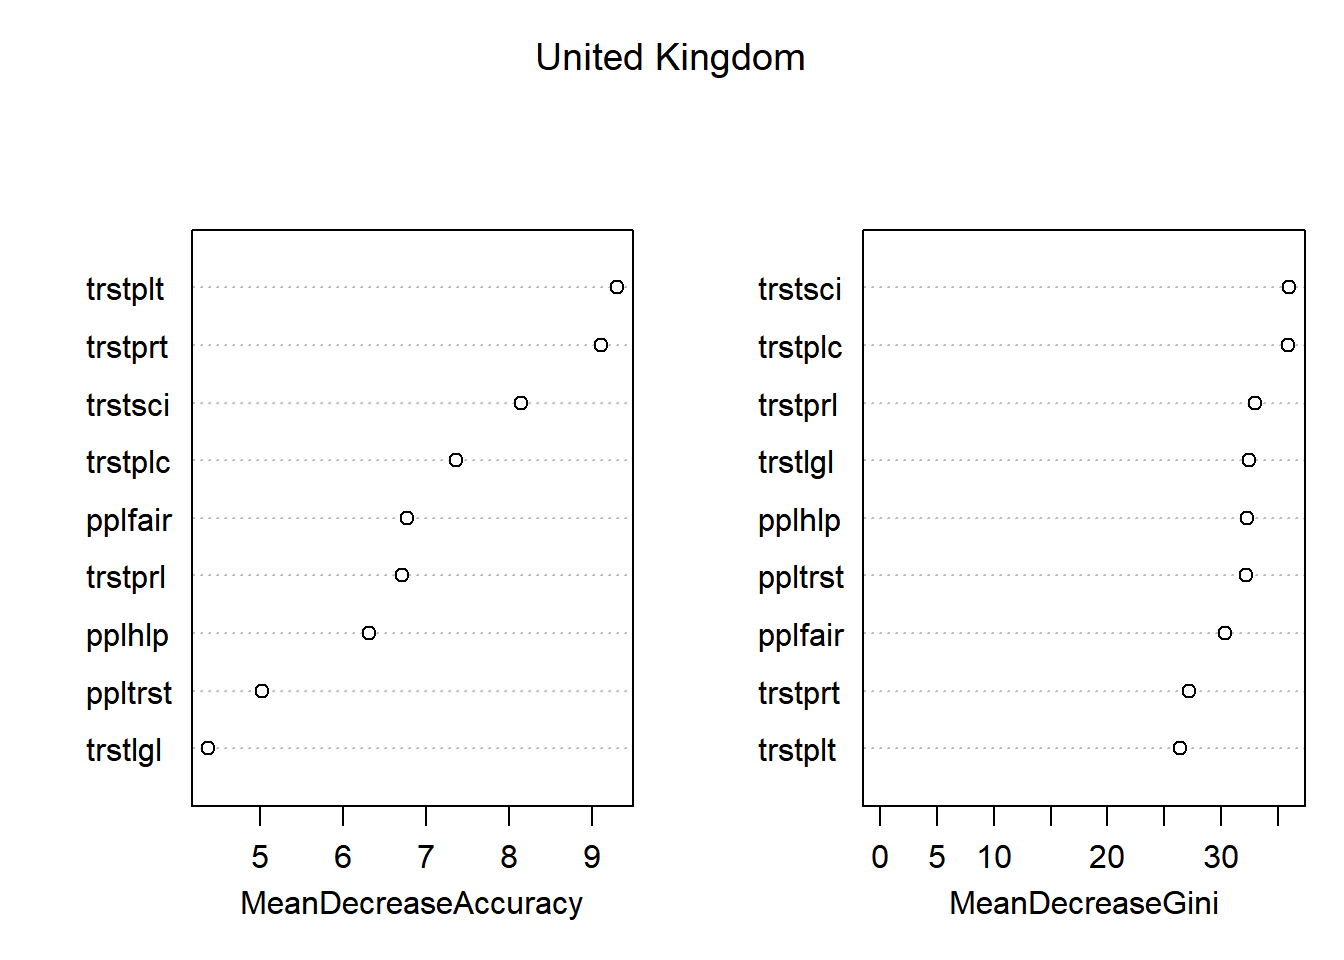
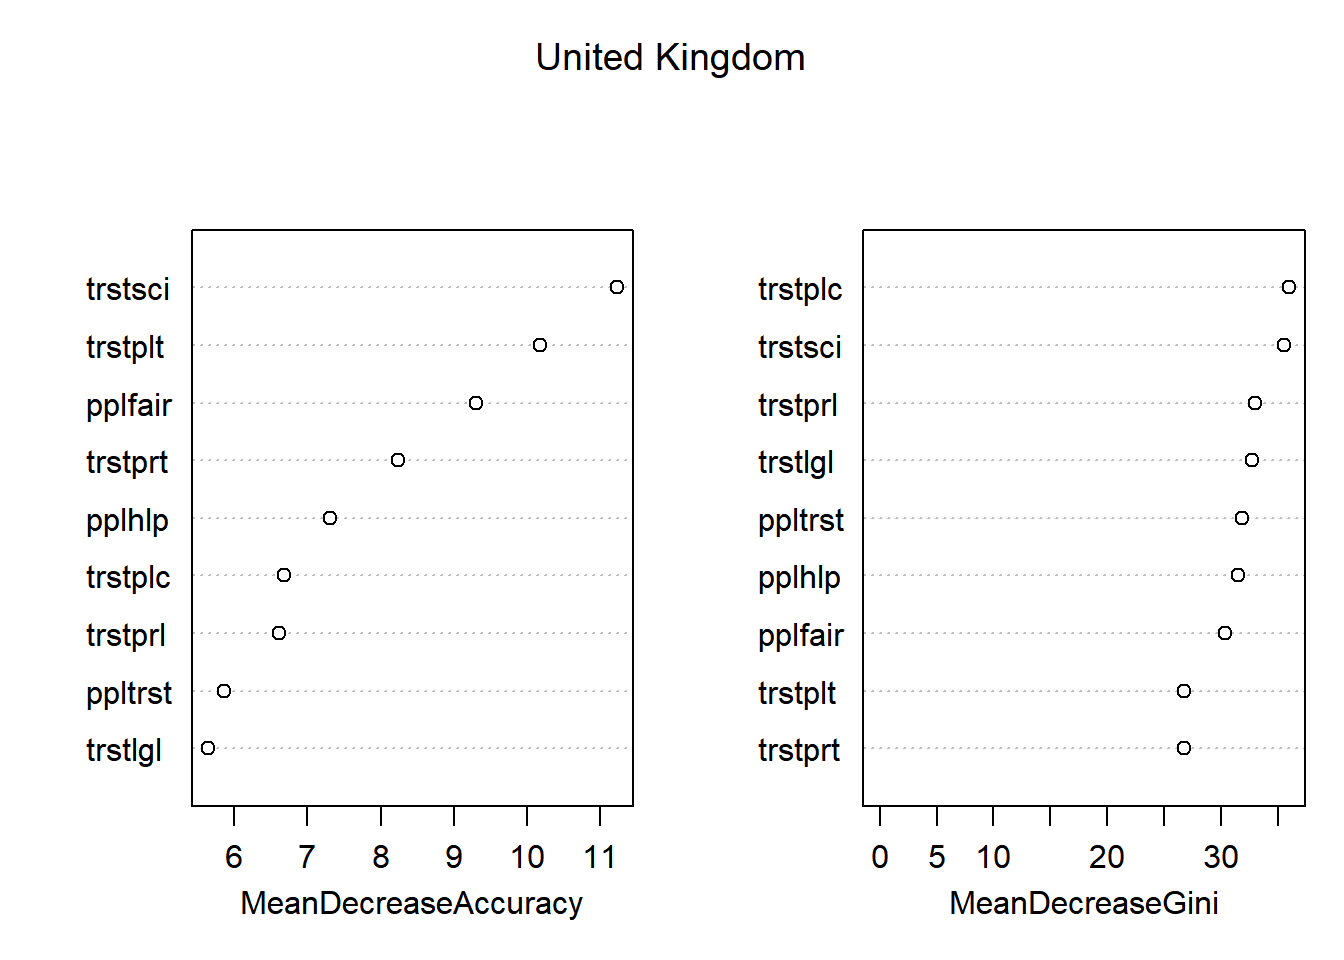
Fixed file dependencies for .qmd

diff --git a/non-parametric/experimental_models/DecisionTrees/DecisionTreesPlots.html b/non-parametric/experimental_models/DecisionTrees/DecisionTreesPlots.html
@@ -528,16 +528,16 @@ Pruned Tree for United Kingdom :</code></pre>
 </div>
 </div>
 <div class="cell-output cell-output-stdout">
-<pre><code>United Kingdom Random Forest Variable Importance            High         Low      Medium MeanDecreaseAccuracy MeanDecreaseGini
-ppltrst 5.677030  2.68983596 -2.54456911             5.026167         32.16040
-pplhlp  6.843082 -0.34196419 -1.23344635             6.311252         32.26730
-pplfair 6.444983 -1.89040706  3.04095991             6.772452         30.33347
-trstprl 8.045312  0.80500827 -4.24956588             6.707437         33.00717
-trstlgl 4.623828  1.48484595 -0.92481703             4.374643         32.43848
-trstplc 7.374487  1.43148172 -0.05557574             7.359372         35.84967
-trstplt 9.232850  1.19125592  0.80856898             9.294963         26.41178
-trstprt 9.879684  0.01084002 -2.34836914             9.107360         27.15227
-trstsci 7.080909  8.20877990  0.53995755             8.137049         35.93605</code></pre>
+<pre><code>United Kingdom Random Forest Variable Importance             High        Low     Medium MeanDecreaseAccuracy MeanDecreaseGini
+ppltrst  6.335306  1.4900501 -1.1298153             5.860120         31.86546
+pplhlp   7.730095 -0.6659739  0.3502832             7.306723         31.51567
+pplfair  9.063822 -2.1780359  3.3065856             9.302467         30.34422
+trstprl  7.207988 -1.0246463 -1.3400533             6.605943         33.04972
+trstlgl  6.284401 -1.5874431 -0.9914052             5.637131         32.70845
+trstplc  6.298371  2.4497173  1.4917256             6.672516         35.98215
+trstplt 10.069290 -2.0895011  2.6079401            10.187871         26.74223
+trstprt  8.638965  0.2662680 -1.1138713             8.245680         26.73694
+trstsci 10.033977  6.1684543  3.1815287            11.232579         35.55095</code></pre>
 </div>
 <div class="cell-output-display">
 <div>
